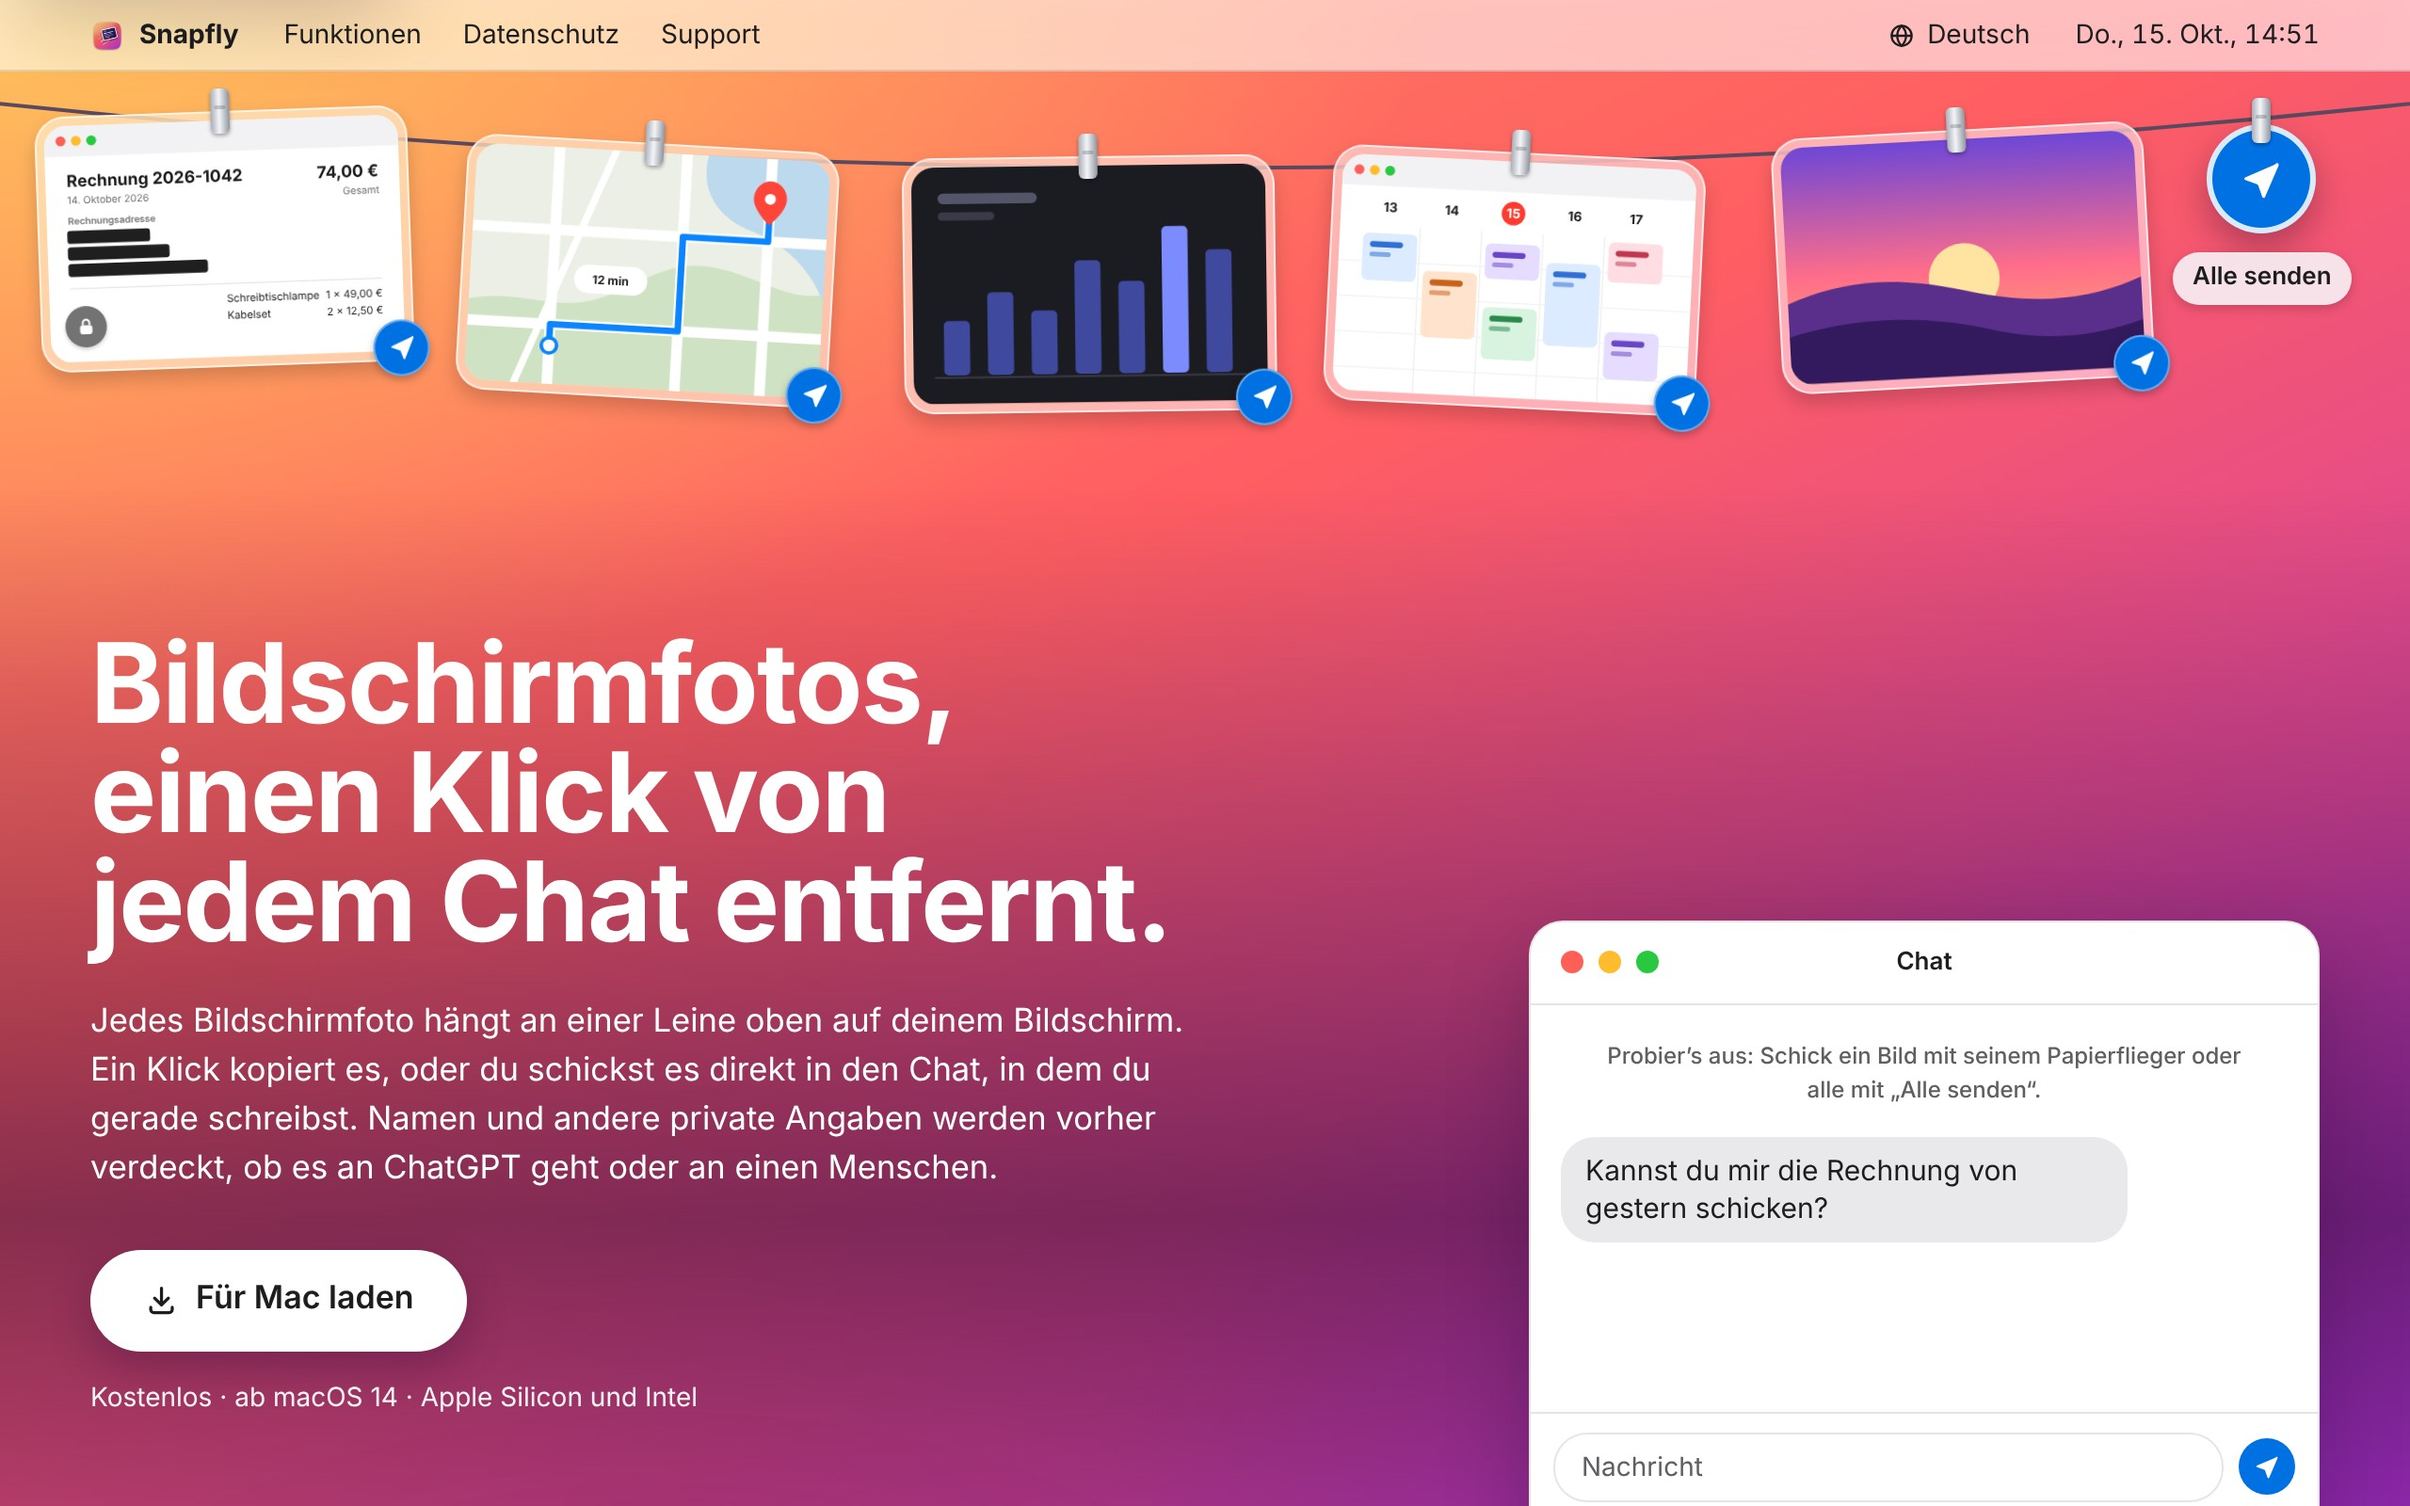
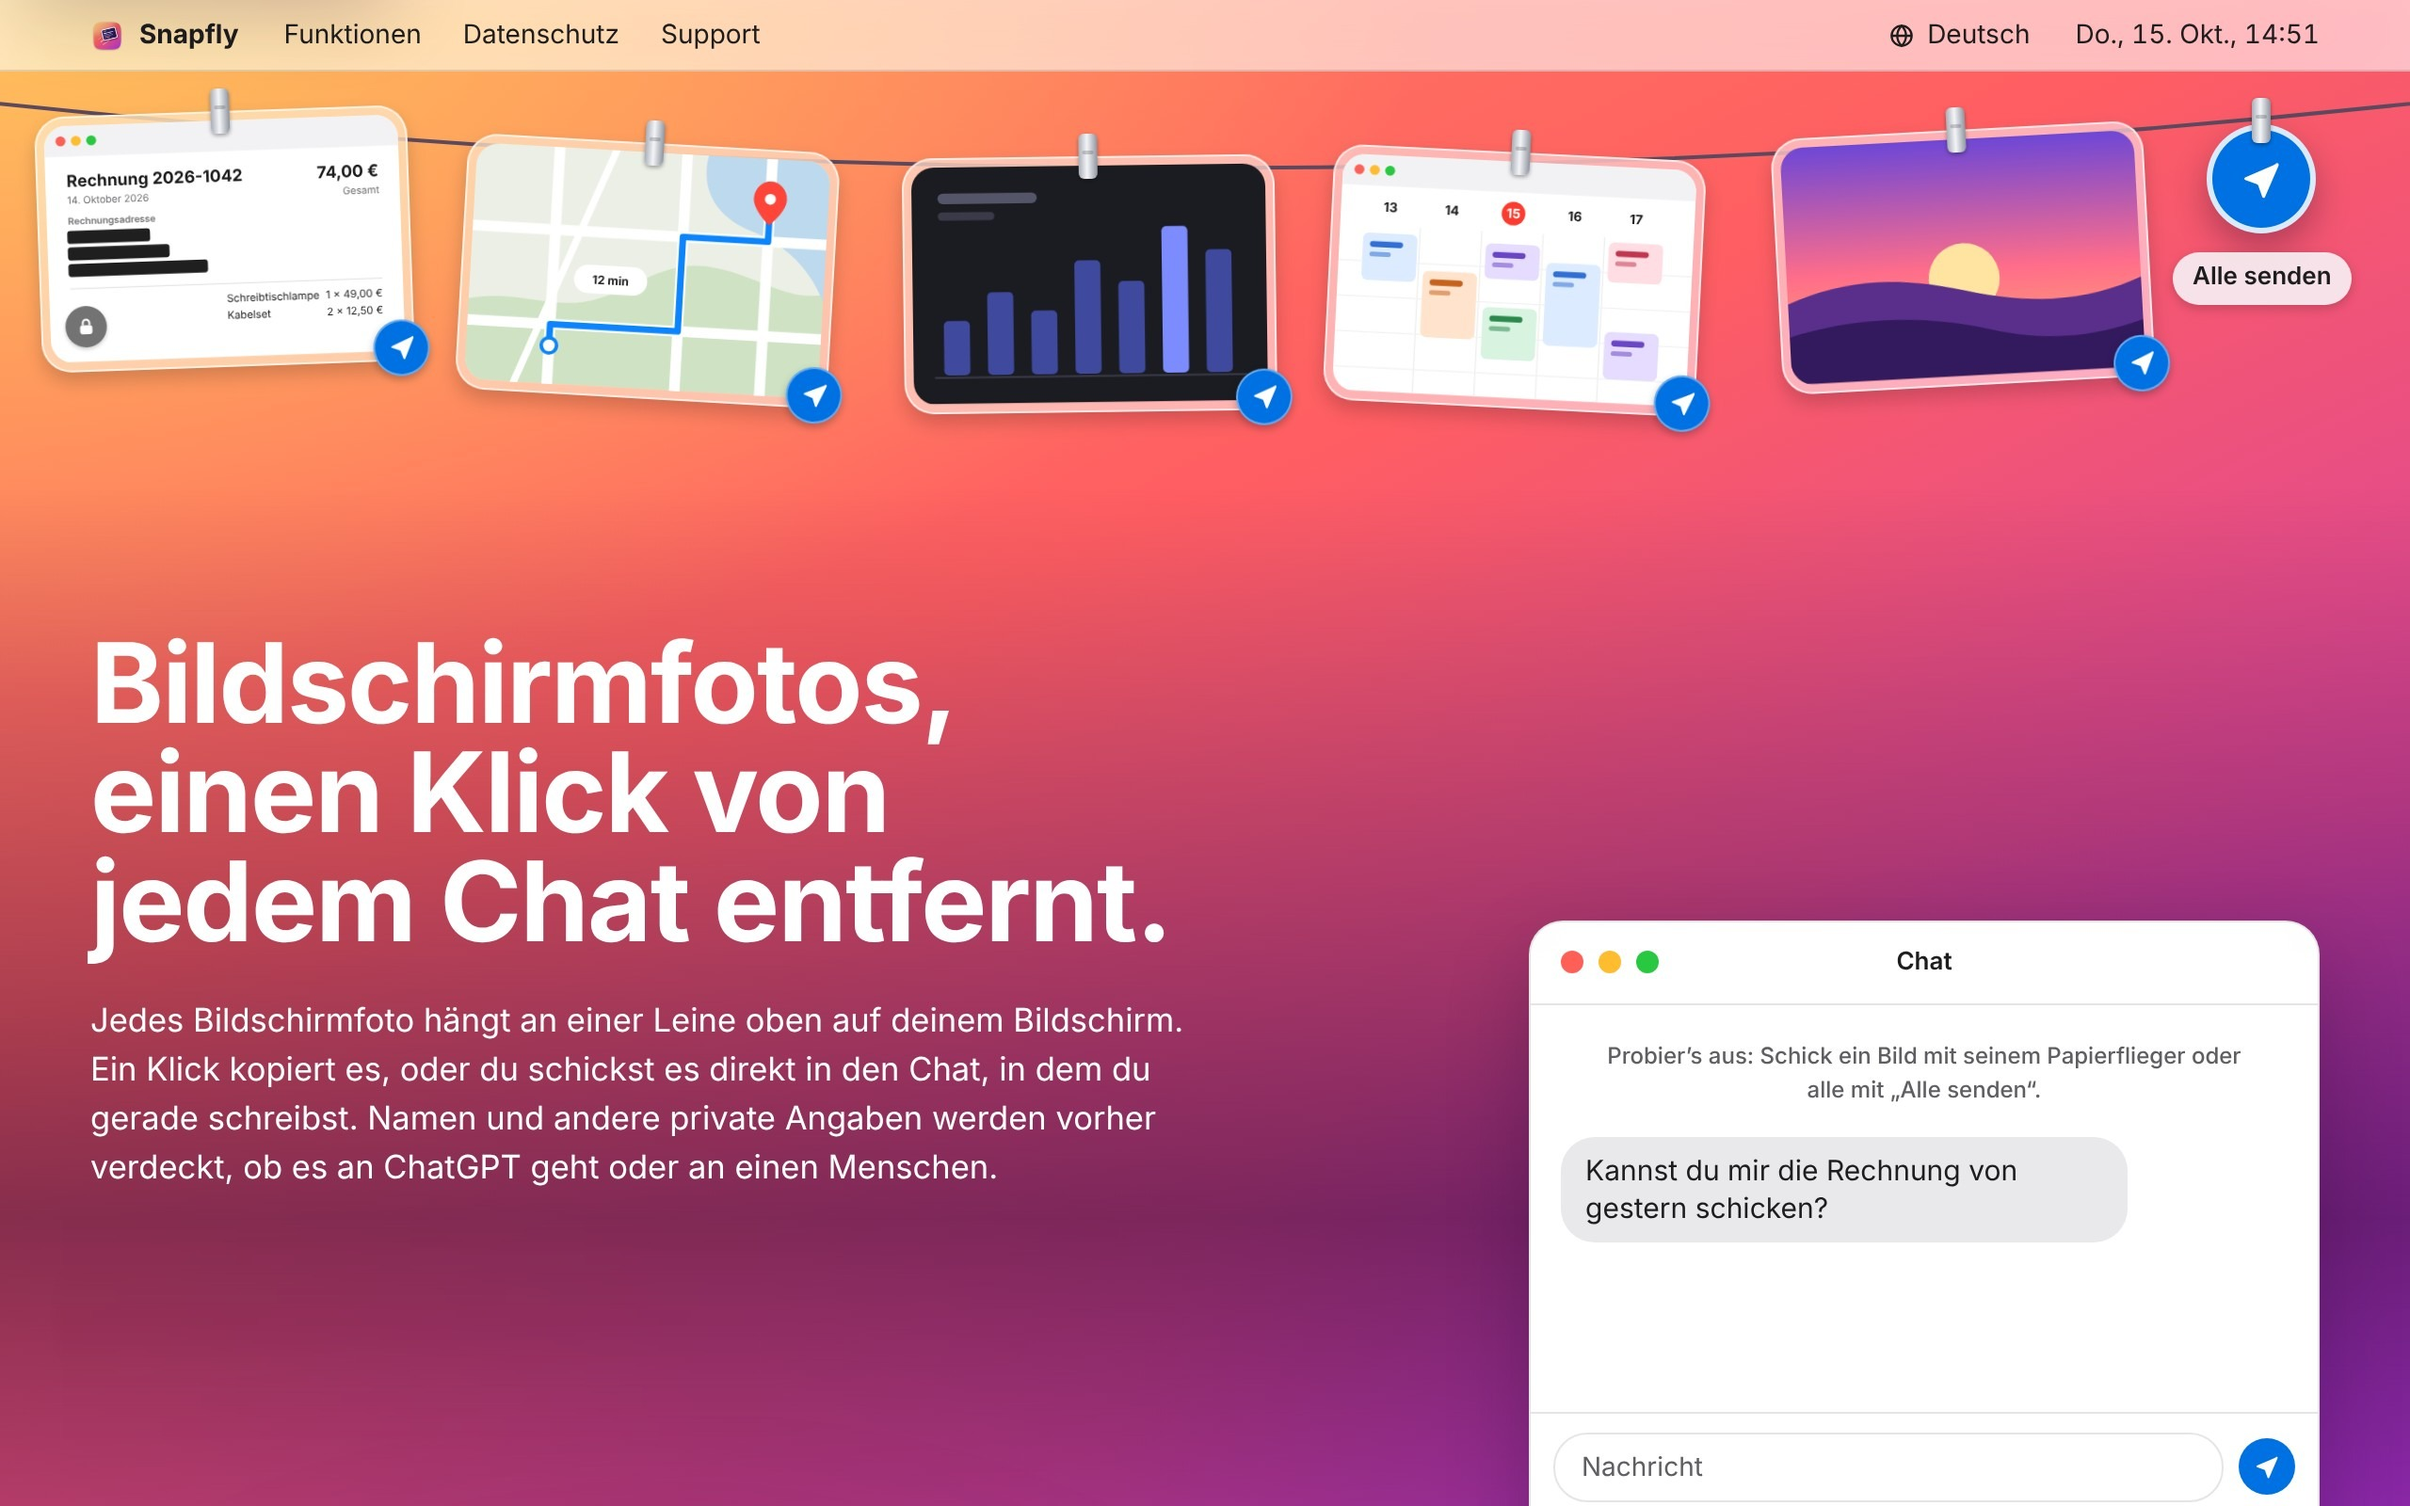
Mac: Snapfly can always be found, for App Review; a store screenshot without its price
App Review saw no window and no menu bar icon on macOS 27. Opening Snapfly
again while it runs now opens Settings, and when the menu bar has no room
for its icon at launch, Settings opens by itself with a note on how to come
back. Build Snapfly opens the sandboxed App Store edition at every push
(scripts/launch-check.sh): first, again while it runs, and after a quit,
and fails when nothing shows or it crashes.

The first store screenshot said "Kostenlos" under a download button, which
guideline 2.3.7 refuses; both are gone. docs/store/app-review.md holds the
notes to paste for the reviewer and what this review asked for.

Claude-Session: https://claude.ai/code/session_01YGKqyW6ER4XyvzyxBxWGMU

Changed region(s): [[0.0312, 0.8125, 0.2812, 0.9375]]

diff --git a/Sources/Tendedero/AppDelegate.swift b/Sources/Tendedero/AppDelegate.swift
@@ -257,6 +257,32 @@ final class AppDelegate: NSObject, NSApplicationDelegate, NSMenuDelegate {
         hangFiles(urls, from: nil)
     }
 
+    /// Opened again from Finder, Launchpad or Spotlight while it runs:
+    /// Settings, a window to find Snapfly by, as it has no Dock icon.
+    func applicationShouldHandleReopen(_ sender: NSApplication, hasVisibleWindows flag: Bool) -> Bool {
+        if launched { openSettings() }
+        return false
+    }
+
+    /// When the menu bar icon cannot be seen, hidden behind the camera's
+    /// notch on a full menu bar or kept out of it in System Settings,
+    /// Settings opens instead, with a note on how to come back, so a launch
+    /// never shows nothing.
+    private func showSettingsIfIconHidden() {
+        guard NSMenu.menuBarVisible(), NSApp.modalWindow == nil, !Guide.shared.isRunning,
+              !iconIsVisible else { return }
+        openSettings()
+        Notice.show(L("The menu bar has no room for Snapfly's icon. Open Snapfly again to come back to Settings."),
+                    lasting: 8)
+    }
+
+    /// Whether the menu bar icon is on a screen and not covered.
+    private var iconIsVisible: Bool {
+        guard statusItem.isVisible, let window = statusItem.button?.window, window.isVisible,
+              window.occlusionState.contains(.visible) else { return false }
+        return NSScreen.screens.contains { $0.frame.intersects(window.frame) }
+    }
+
     /// Quitting while the screen is recorded, from the menu, by logging out
     /// or with Install and Reopen, saves the recording first, as Stop does.
     func applicationShouldTerminate(_ sender: NSApplication) -> NSApplication.TerminateReply {
@@ -558,6 +584,9 @@ final class AppDelegate: NSObject, NSApplicationDelegate, NSMenuDelegate {
             button.window?.delegate = statusDrop
         }
         launched = true
+        // Once the menu bar has placed the icon, and after the welcome,
+        // which shows on its own.
+        DispatchQueue.main.asyncAfter(deadline: .now() + 3) { [weak self] in self?.showSettingsIfIconHidden() }
         if !waitingFiles.isEmpty {
             let urls = waitingFiles
             waitingFiles = []

diff --git a/scripts/app-windows.swift b/scripts/app-windows.swift
@@ -1,0 +1,18 @@
+// Lists the windows an app shows on screen, one per line: its level, its
+// frame and how opaque it is, for scripts/launch-check.sh.
+// Usage: swift scripts/app-windows.swift <pid>
+import CoreGraphics
+import Foundation
+
+guard CommandLine.arguments.count == 2, let pid = Int(CommandLine.arguments[1]) else {
+    FileHandle.standardError.write("Usage: app-windows.swift <pid>\n".data(using: .utf8)!)
+    exit(2)
+}
+let windows = CGWindowListCopyWindowInfo([.optionOnScreenOnly], kCGNullWindowID) as? [[String: Any]] ?? []
+for window in windows where (window[kCGWindowOwnerPID as String] as? Int) == pid {
+    let level = window[kCGWindowLayer as String] as? Int ?? 0
+    let alpha = window[kCGWindowAlpha as String] as? Double ?? 1
+    let bounds = window[kCGWindowBounds as String] as? [String: Double] ?? [:]
+    let frame = ["X", "Y", "Width", "Height"].map { Int(bounds[$0] ?? 0) }
+    print("level \(level) frame \(frame[0]) \(frame[1]) \(frame[2]) \(frame[3]) alpha \(alpha)")
+}

diff --git a/README.md b/README.md
@@ -102,6 +102,7 @@ nothing. Not during a call, in Settings under Line, turns this off.
 | Add Files… in the menu bar | Pick photos or PDFs to hang. |
 | Cover Files… in the menu bar, or several files or a folder sent to Hide Private Details with Snapfly in Finder | Cover private details in many PDFs and pictures at once, even a thousand. Choose what to cover, like names alone; each gets a covered copy in a new folder, and the files themselves stay as they are. |
 | Click anything in the menu bar | Put it away. |
+| Open Snapfly again from Finder, Launchpad or Spotlight while it runs | Settings opens, as Snapfly has no Dock icon. When the menu bar has no room for the icon, behind the camera's notch on a full menu bar, Settings opens by itself at launch, with a note on how to come back. |
 | Glance at the Snapfly icon in the menu bar | How many photos hang, beside it, and a small dot on it while something new hangs that the line has not shown yet. Turn it off with Count on the menu bar icon, under Line. |
 | Record a Guide in the menu bar, then click through | Each click becomes a step of a guide, with a screenshot and a sentence. Click the capsule above the Dock to finish, and the guide opens to edit, send or save. |
 | Click the Snapfly icon in the menu bar | The menu: how many photos hang and Paste into the app in front, then Settings and the screenshots folder, the ways to take, Add Files and Cover Files, the line, the Hide private details, Screenshot Button and Hide Desktop Icons switches, then the Introduction (Continue Introduction when it was ended before its end), Help & Support and Check for Updates, just above Quit. |
@@ -1686,6 +1687,7 @@ so macOS asks again for access to the Desktop after each rebuild.
 | `iOS/Snapfly/CoverStylePage.swift` | Cover Style: the made-up bill covered as chosen, the six looks and the two switches |
 | `iOS/Snapfly/DetectionView.swift` | Detection: Apple Intelligence, Snapfly's own camera for pages (a test), the check before sharing, Faster picture processing, and how long covering took |
 | `iOS/SnapflyUITests` | Always Hide, More and Scan driven on the simulator in German: a name added, both kinds of rule, a rule off and on, a swipe to delete, the screen with nothing yet; More's counts, switches, presets, sheets, looks and tab bar; Scan's tab, Review, Compare, a blurred page, the colours, deleting a page, corners set by hand and Save and Share, the reminder for an invoice still to pay, the owner's name and address covered on a letter, a photographed document cleaned and reverted, a screenshot never offered it, what goes to an AI chat and that it is the covered export byte for byte, the name, the text with a bar where a cover is and never what it hides, from Save and Share and from Review, and with the warning without covers, searched with its matches counted, a cell or paragraph corrected and all corrections undone, Seite and back, the player or the note that no voice is there, and photos chosen together in their order; and the walks the videos are made of |
+| `scripts/launch-check.sh` | Opens the sandboxed App Store edition as App Review does, at every push in Build Snapfly: the first time, again while it runs (Settings must open) and after a quit; fails when nothing shows or it crashes, and keeps what showed in the `launch-check` artifact. `scripts/app-windows.swift` lists an app's windows for it |
 | `scripts/scan-checks.sh` | Runs the scan's fixture tests on the Mac with their pictures and numbers, then its UI tests on the simulator for the Scan Checks workflow, keeps frames of the tab, Review, its list, the letter naming the owner, Save and Share (with the reminder for an invoice still to pay) and the pages' text (light, dark, the largest text sizes, Arabic and English, the newest and the smallest iPhone) and records the walks with and without Reduce Motion, for the `scan-captures` pre-release |
 | `scripts/more-checks.sh` | Runs More's UI tests for the More Checks workflow (What Is Covered alone at each push, all of More when run by hand), keeps frames of the tab and each page (light, dark, the largest text sizes, Arabic and English, the newest and the smallest iPhone) and records its motion with and without Reduce Motion, for the `more-captures` pre-release |
 | `docs/snapfly-covered-studio-audit.md` | What Is Covered's audit before the live preview: where the choice is kept, the twenty-two kinds and their groups, the presets' values and who reads them |

diff --git a/docs/store/app-review.md b/docs/store/app-review.md
@@ -1,0 +1,36 @@
+# App Review
+
+What to paste into App Store Connect for the Mac App Store edition, and
+what each review's findings asked for. Nothing here is sent by a script:
+the owner pastes it.
+
+## Notes for the reviewer
+
+Paste into the macOS version page › App Review Information › Notes:
+
+```
+Snapfly is a menu bar app: it has no Dock icon and no main window by design.
+
+- After launch, its icon (a small photo on a line) is in the menu bar. Click it for the menu, which also opens Settings.
+- On the first launch, a welcome card appears in the middle of the screen.
+- Opening Snapfly again from the Applications folder, Launchpad or Spotlight while it runs opens its Settings window.
+- If the menu bar has no room for the icon, for example on a MacBook with a camera notch and many menu bar items, Snapfly opens Settings by itself and says so.
+
+To try it: press Control-Option-S, then drag over any area of the screen. The screenshot hangs on a line at the top of the screen. Click its paper plane to paste it into the app in front, with names and other private details already covered.
+
+Snapfly is not offered in China mainland.
+```
+
+## October 2026, version 1.0 (204)
+
+- **2.1(a), App Completeness.** The reviewer, on macOS 27, saw no window
+  and no menu bar icon. From the first build after this change,
+  opening Snapfly again opens Settings, and a launch whose menu bar icon
+  cannot be seen opens Settings by itself. The Build Snapfly workflow opens
+  the sandboxed App Store edition at every push (`scripts/launch-check.sh`)
+  and fails when nothing shows.
+- **2.3.7, Accurate Metadata.** The first screenshot said "Kostenlos"
+  (free). `1-hero.jpg` no longer has the price line or the download button.
+- **5, Legal (China).** ChatGPT is named in the metadata and the app can
+  paste into it. The owner takes China mainland out of Pricing and
+  Availability, which Apple offers instead of removing the feature.

diff --git a/CHANGELOG.md b/CHANGELOG.md
@@ -10,6 +10,9 @@ keeps a download of each version.
   item like "Druckpatronen Schwarz", with its price on its row, under a
   column headed Beschreibung, Artikel or Item, stays readable and is only
   offered to cover. A column of people, like Teilnehmer, stays covered.
+- On the Mac, opening Snapfly again while it runs opens Settings, and when
+  the menu bar has no room for its icon, Settings opens by itself at
+  launch, so Snapfly can always be found.
 - On the iPhone, what can't be undone asks first: Clear beside the scanned
   pages, Delete on a recent document, and Turn Off for faster picture
   processing, which deletes everything prepared.

diff --git a/CLAUDE.md b/CLAUDE.md
@@ -90,6 +90,8 @@ the website's footer. Both stay.
     with `#if !APP_STORE` and give the store edition a public way, as
     `FullScreen.swift` does. `scripts/check-private-apis.sh` checks the
     binary in both workflows.
+  - `docs/store/app-review.md` holds the notes for App Review and what
+    each review asked for; add to it with each rejection.
   - The privacy policy for the store listing is the website's privacy page
     (below). `PRIVACY.md` is the short version in the repository.
 - **Website.** `website/` builds https://mgrd281.github.io/Screenshots/ (English),

diff --git a/docs/store/listing/README.md b/docs/store/listing/README.md
@@ -4,6 +4,9 @@ The texts for Snapfly's page in App Store Connect, ready to paste. Nothing
 here is uploaded by a workflow or a script: the owner copies each file into
 App Store Connect by hand.
 
+The notes for App Review, and what each review asked for, are in
+`../app-review.md`.
+
 ## Folders
 
 One folder per App Store Connect language:
